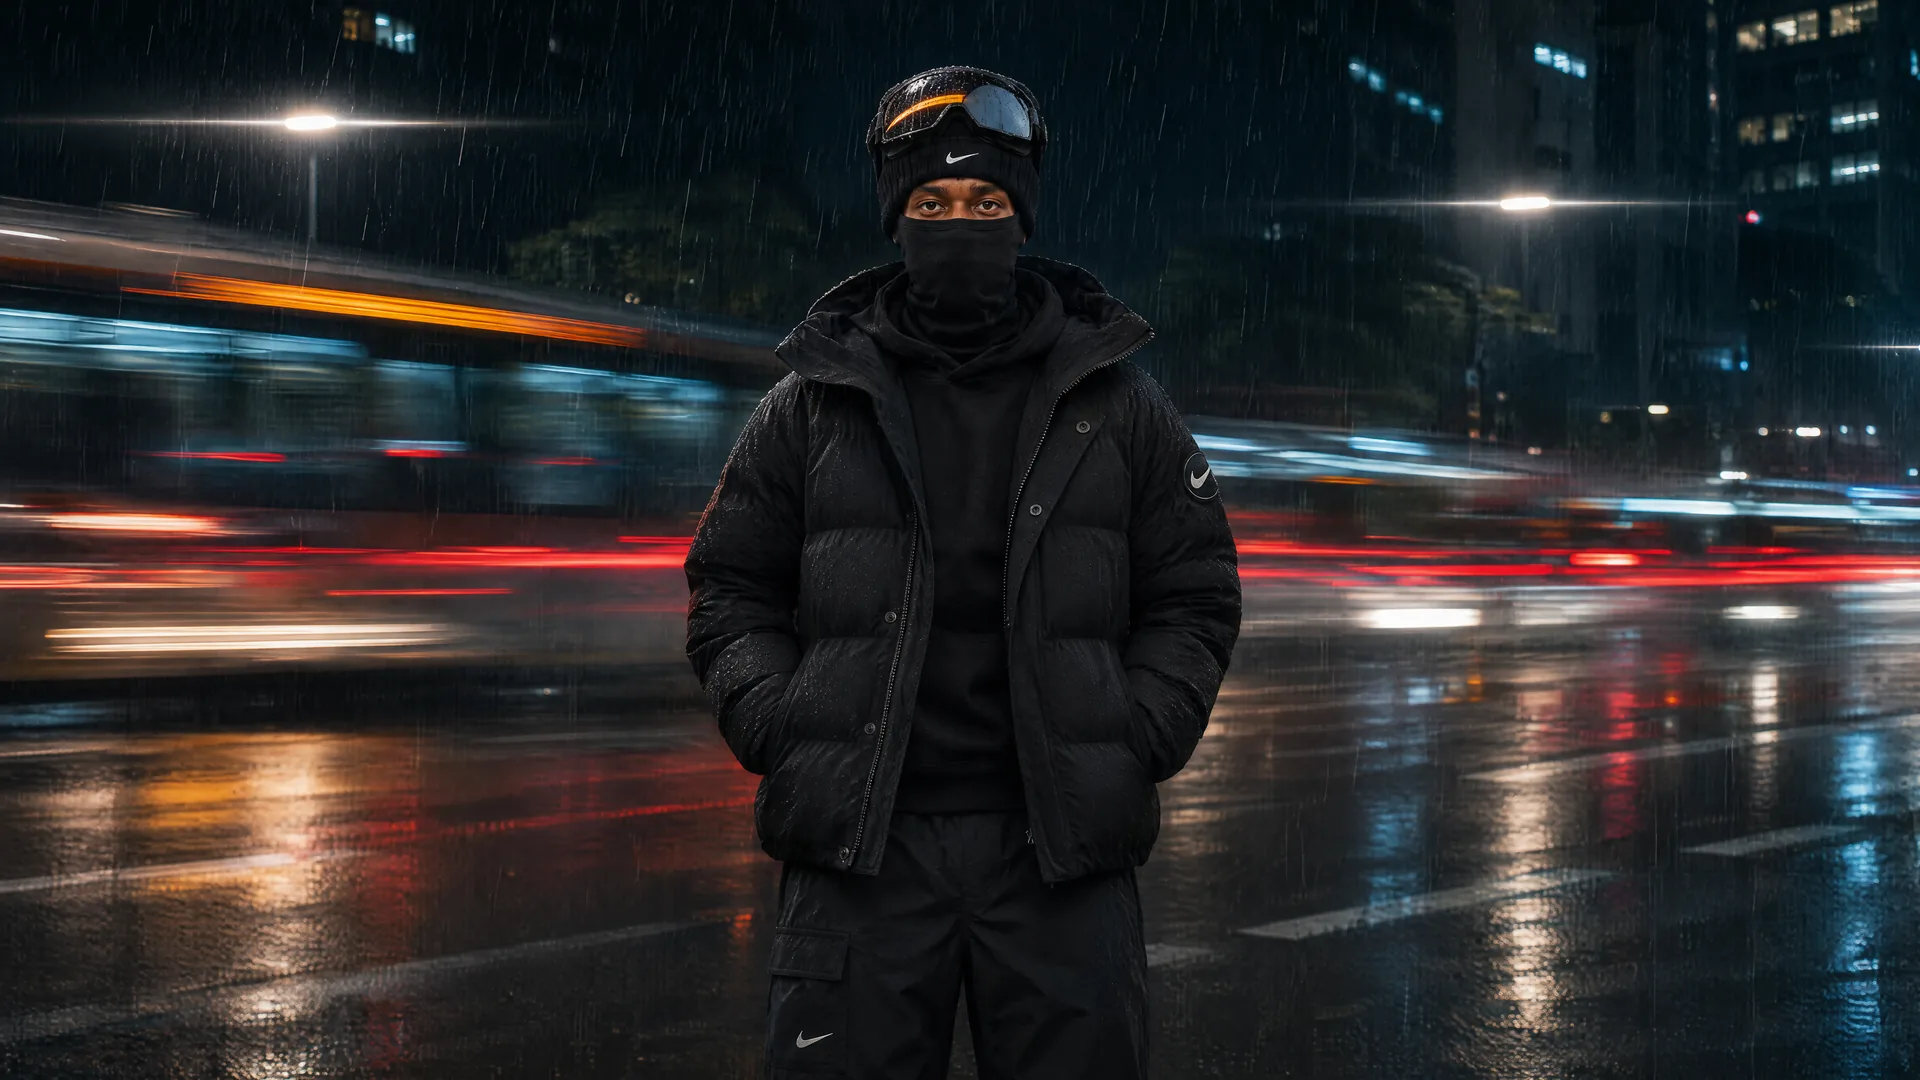
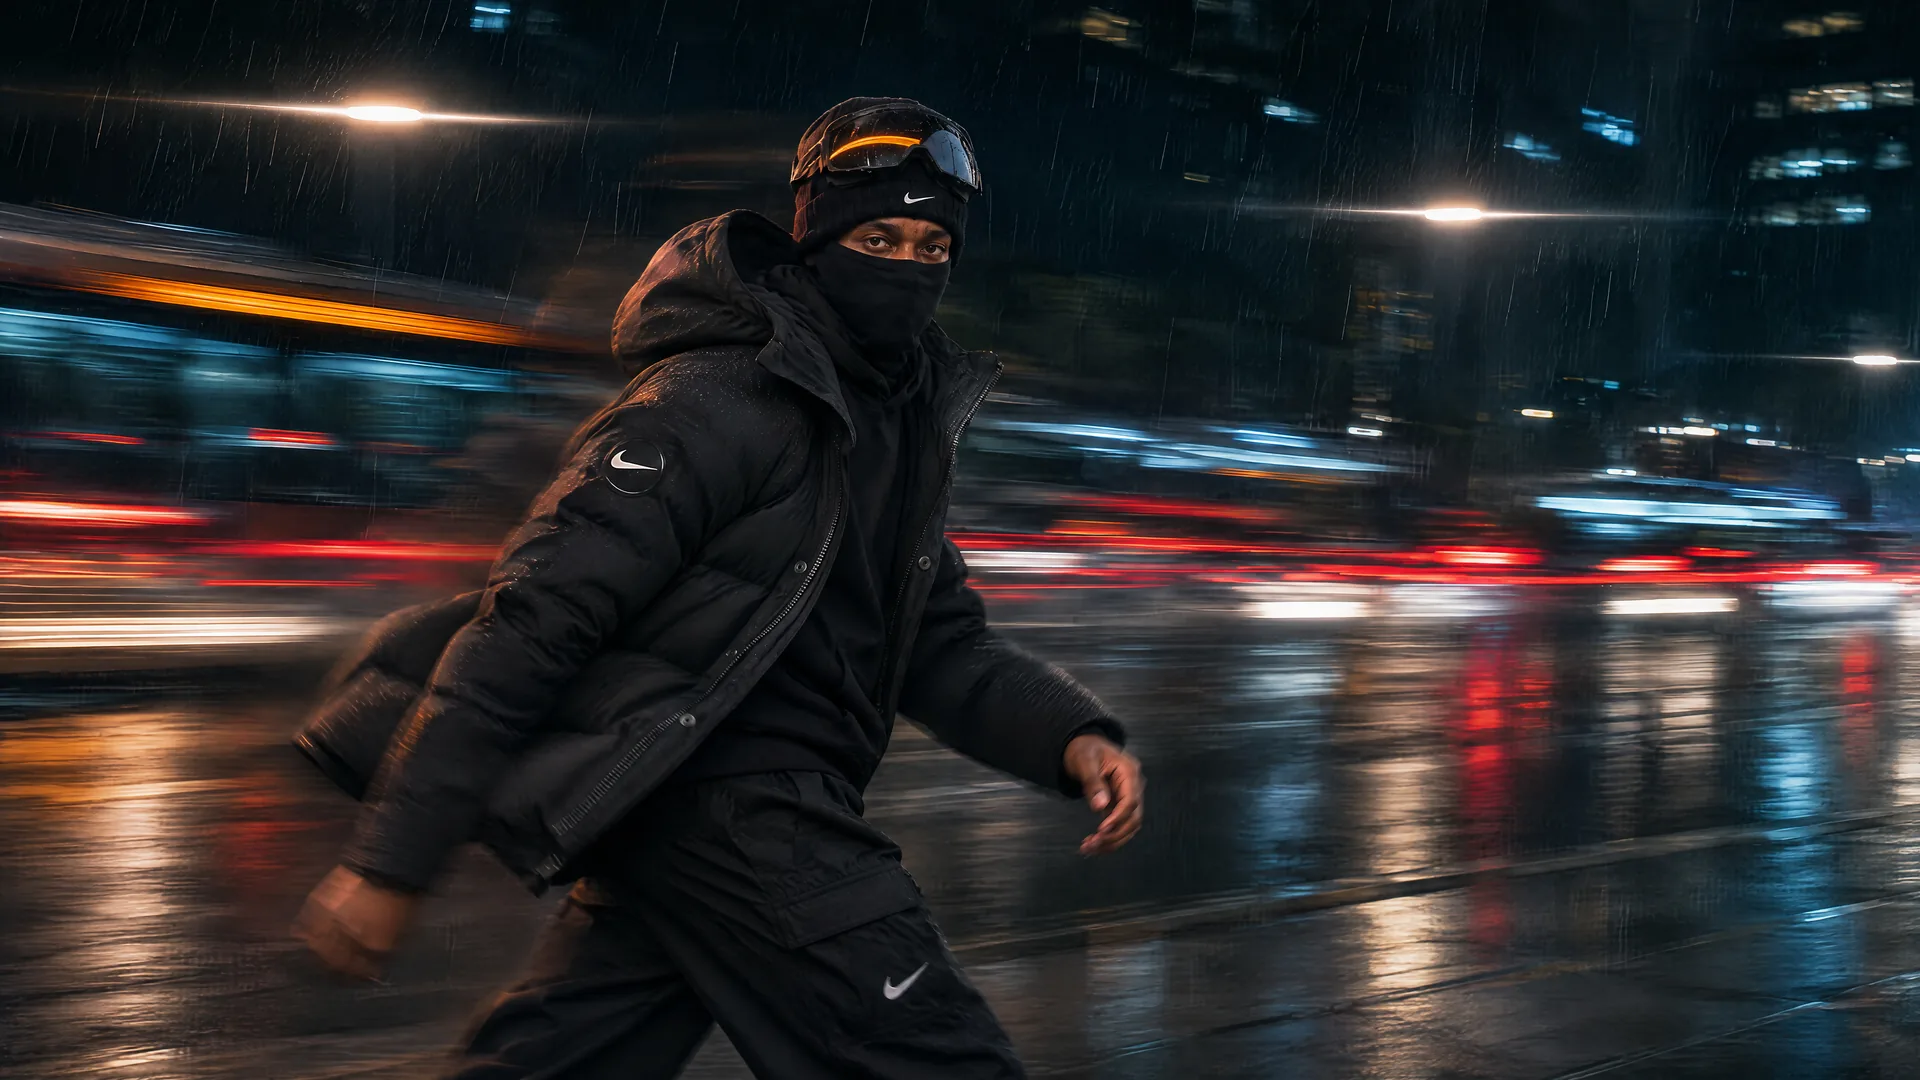
Em movimento: Garoa refeita (ele andando dentro do movimento)

diff --git a/src/data/movimento.js b/src/data/movimento.js
@@ -2,7 +2,7 @@
 // Fotos do Higgsfield (GPT Image 2.6) em fonte/movimento/, exportadas por fonte/movimento/exporta.mjs para
 // public/loja/movimento/: a larga (16:9) em 2880 e 1920, e uma vertical própria do celular (9:16, 1200 × 2122).
 //
-// A primeira é a "parada" (a pessoa nítida, a cidade riscando atrás); a segunda é a "em movimento" (panning).
+// A primeira é a noite (ele andando, a cidade riscando junto); a segunda é a "em movimento" (panning).
 // A lente (src/motion/lente.js) leva de uma à outra com a rolagem.
 //
 // foco: o ponto da foto que nunca sai do quadro quando a tela corta a imagem (object-position e o recorte do shader),
@@ -30,8 +30,8 @@ export const movimento = {
       peca: '07-1',
       nome: 'Garoa',
       legenda: 'Garoa · Avenida, 23h40',
-      foco: { tela: [0.5, 0.3], celular: [0.5, 0.4] },
-      alt: 'Rapaz de jaqueta puffer preta da Nike, balaclava, gorro e óculos de neve na testa, parado no meio de uma avenida molhada à noite, sob garoa. Atrás dele, um ônibus e os carros viram riscos de luz vermelhos, brancos e laranja.',
+      foco: { tela: [0.46, 0.3], celular: [0.5, 0.4] },
+      alt: 'Rapaz de jaqueta puffer preta da Nike, balaclava, gorro e óculos de neve na testa, andando rápido por uma avenida molhada à noite, sob garoa, com as mãos e a jaqueta borradas pelo movimento. Atrás dele, um ônibus e os carros viram riscos de luz vermelhos, brancos e laranja.',
     }),
     cena({
       id: 'varzea',

diff --git a/src/secoes/movimento.js b/src/secoes/movimento.js
@@ -1,5 +1,5 @@
-// "Em movimento": duas fotos de tela cheia entre a arara e as categorias. A primeira é parada (a pessoa nítida, a
-// cidade riscando atrás); a segunda é em movimento (panning). O palco fica preso à tela e a rolagem leva de uma à
+// "Em movimento": duas fotos de tela cheia entre a arara e as categorias. A primeira é a noite (ele andando, a
+// cidade riscando junto); a segunda é o campo ao pôr do sol (panning). O palco fica preso à tela e a rolagem leva de uma à
 // outra por uma lente de vidro que cresce (src/motion/lente.js, ideia de referencias/lumina-slider).
 //
 // Quem manda é a rolagem: o progresso do pino é o tamanho da lente, então dá para parar no meio, voltar e ver a

diff --git a/BRIEF.md b/BRIEF.md
@@ -692,7 +692,7 @@ Seção nova entre a arara e as categorias: **duas fotos cinematográficas em te
 
 | | Look | Cena | Papel no par |
 |---|---|---|---|
-| 01 `garoa` | 07 Garoa (puffer preta, balaclava, gorro, óculos de neve, calça de neve, bota ACG) | avenida de São Paulo à noite, sob garoa; ele parado no meio, nítido no flash, e o ônibus e os carros virando riscos de luz atrás | a **parada**: escura, azul e fria, com o movimento só no fundo (longa exposição) |
+| 01 `garoa` | 07 Garoa (puffer preta, balaclava, gorro, óculos de neve, calça de neve, bota ACG) | avenida de São Paulo à noite, sob garoa; ele andando rápido em panning, rosto nítido no flash, mãos, jaqueta e perna borradas na direção dos riscos de luz do ônibus e dos carros | a **noite**: escura, azul e fria, com ele dentro do movimento (refeita em 2026-11-10, ver abaixo) |
 | 02 `varzea` | 03 Várzea (camisa amarela 9, bermuda jeans preta, gorro azul, Killshot 2) | campo de terra na periferia, pôr do sol; ele correndo com a bola, poeira acesa contra a luz | a **em movimento**: clara e quente, em panning (o corpo nítido, o fundo correndo) |
 
 - **Por que estes dois:** os nomes dos looks já são os lugares (a garoa de São Paulo, o campo de várzea), e o par repete o da referência: uma figura escura e parada sobre azul profundo, depois a mesma linguagem em movimento sobre fundo claro. O Garoa é, além disso, o look mais perto da referência (puffer preta e óculos de neve). A passagem do azul da noite para o amarelo da camisa é o maior contraste que o elenco oferece, e é ele que faz a lente aparecer.
@@ -748,3 +748,11 @@ Seção nova entre a arara e as categorias: **duas fotos cinematográficas em te
 - Num flick rápido no celular a lente passa em menos de um segundo; se o Victor quiser mais tempo nela, é aumentar os `210svh` em `movimento.css`.
 - As fotos são de primeira geração, sem segunda variação para comparar. Detalhes que um olho exigente pode pegar: o Swoosh da manga da puffer saiu dentro de um emblema redondo (na foto da peça é só o Swoosh), e o do gorro azul do Várzea é branco.
 - O teste do prompt não foi rodado com a seção nova.
+
+### Garoa refeita (2026-11-10, pedido do usuário)
+A primeira versão (`garoa-1`) tinha ele parado na frente de um fundo em movimento: pareciam duas fotos coladas. A `garoa-2` é um panning único: ele anda da esquerda para a direita, o rosto fica nítido no flash e mãos, jaqueta, perna de trás e botas borram na mesma direção e no mesmo comprimento dos riscos da rua. Duas variações em 4K (escolhida a `2b`, que virou `garoa-2.png`; a `2a` ficou ao lado) e a vertical do celular a partir dela (`garoa-celular-2`): 12,75 créditos. `exporta.mjs` lê a versão de `VERSAO`. Foco do desktop passou a `[0.46, 0.3]`.
+
+### Fechamento (2026-11-10)
+- Teste funcional atualizado para o modal novo da arara e com as checagens da lente: 114 ok, 0 falhas (desktop, celular, reserva 2D).
+- Teste do prompt (Opus 5.5) com a entrega final, já com a Garoa nova: passou (rodada 4).
+- Os itens "teste funcional precisa ser atualizado" e "teste do prompt não foi rodado" abaixo ficam resolvidos.
